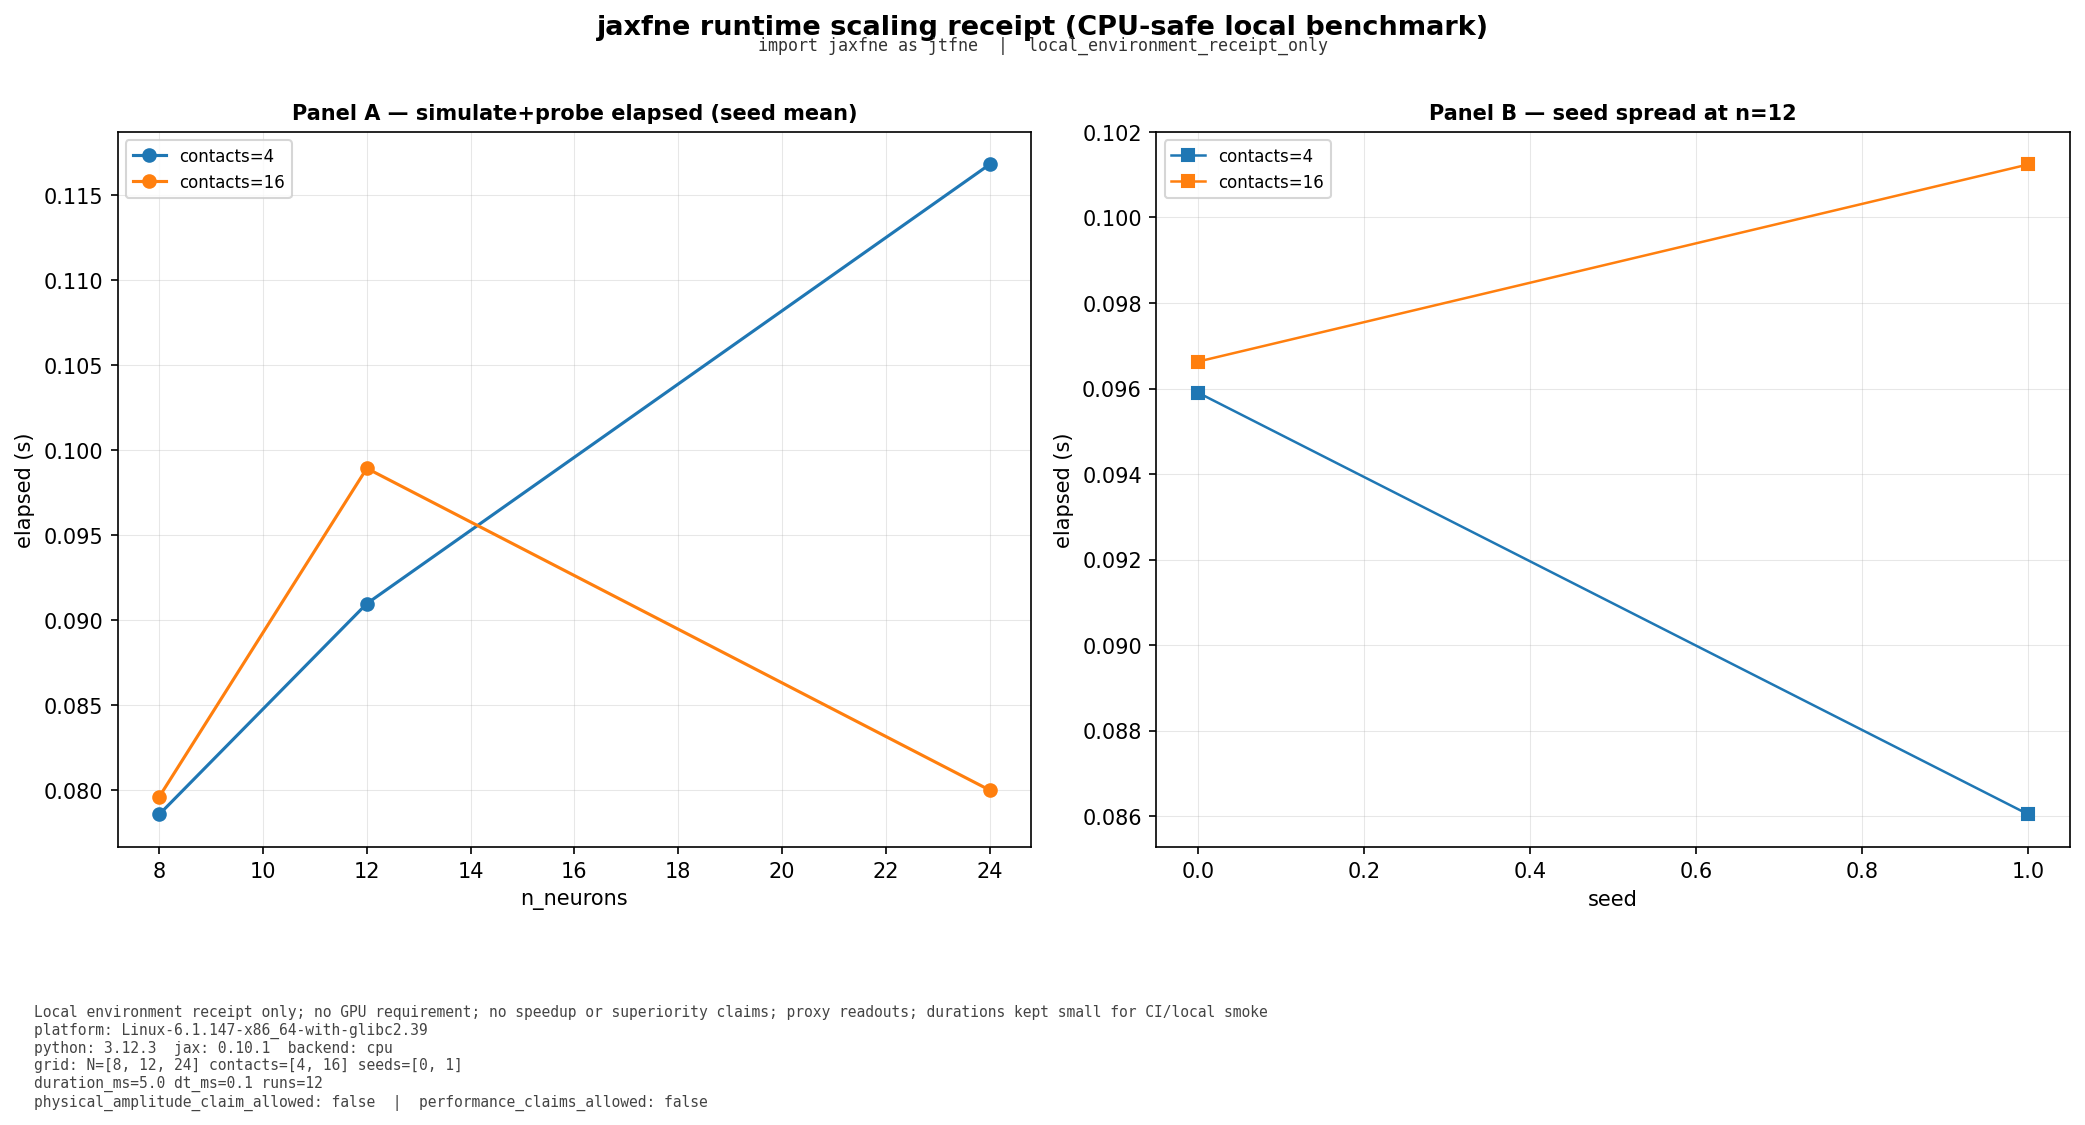
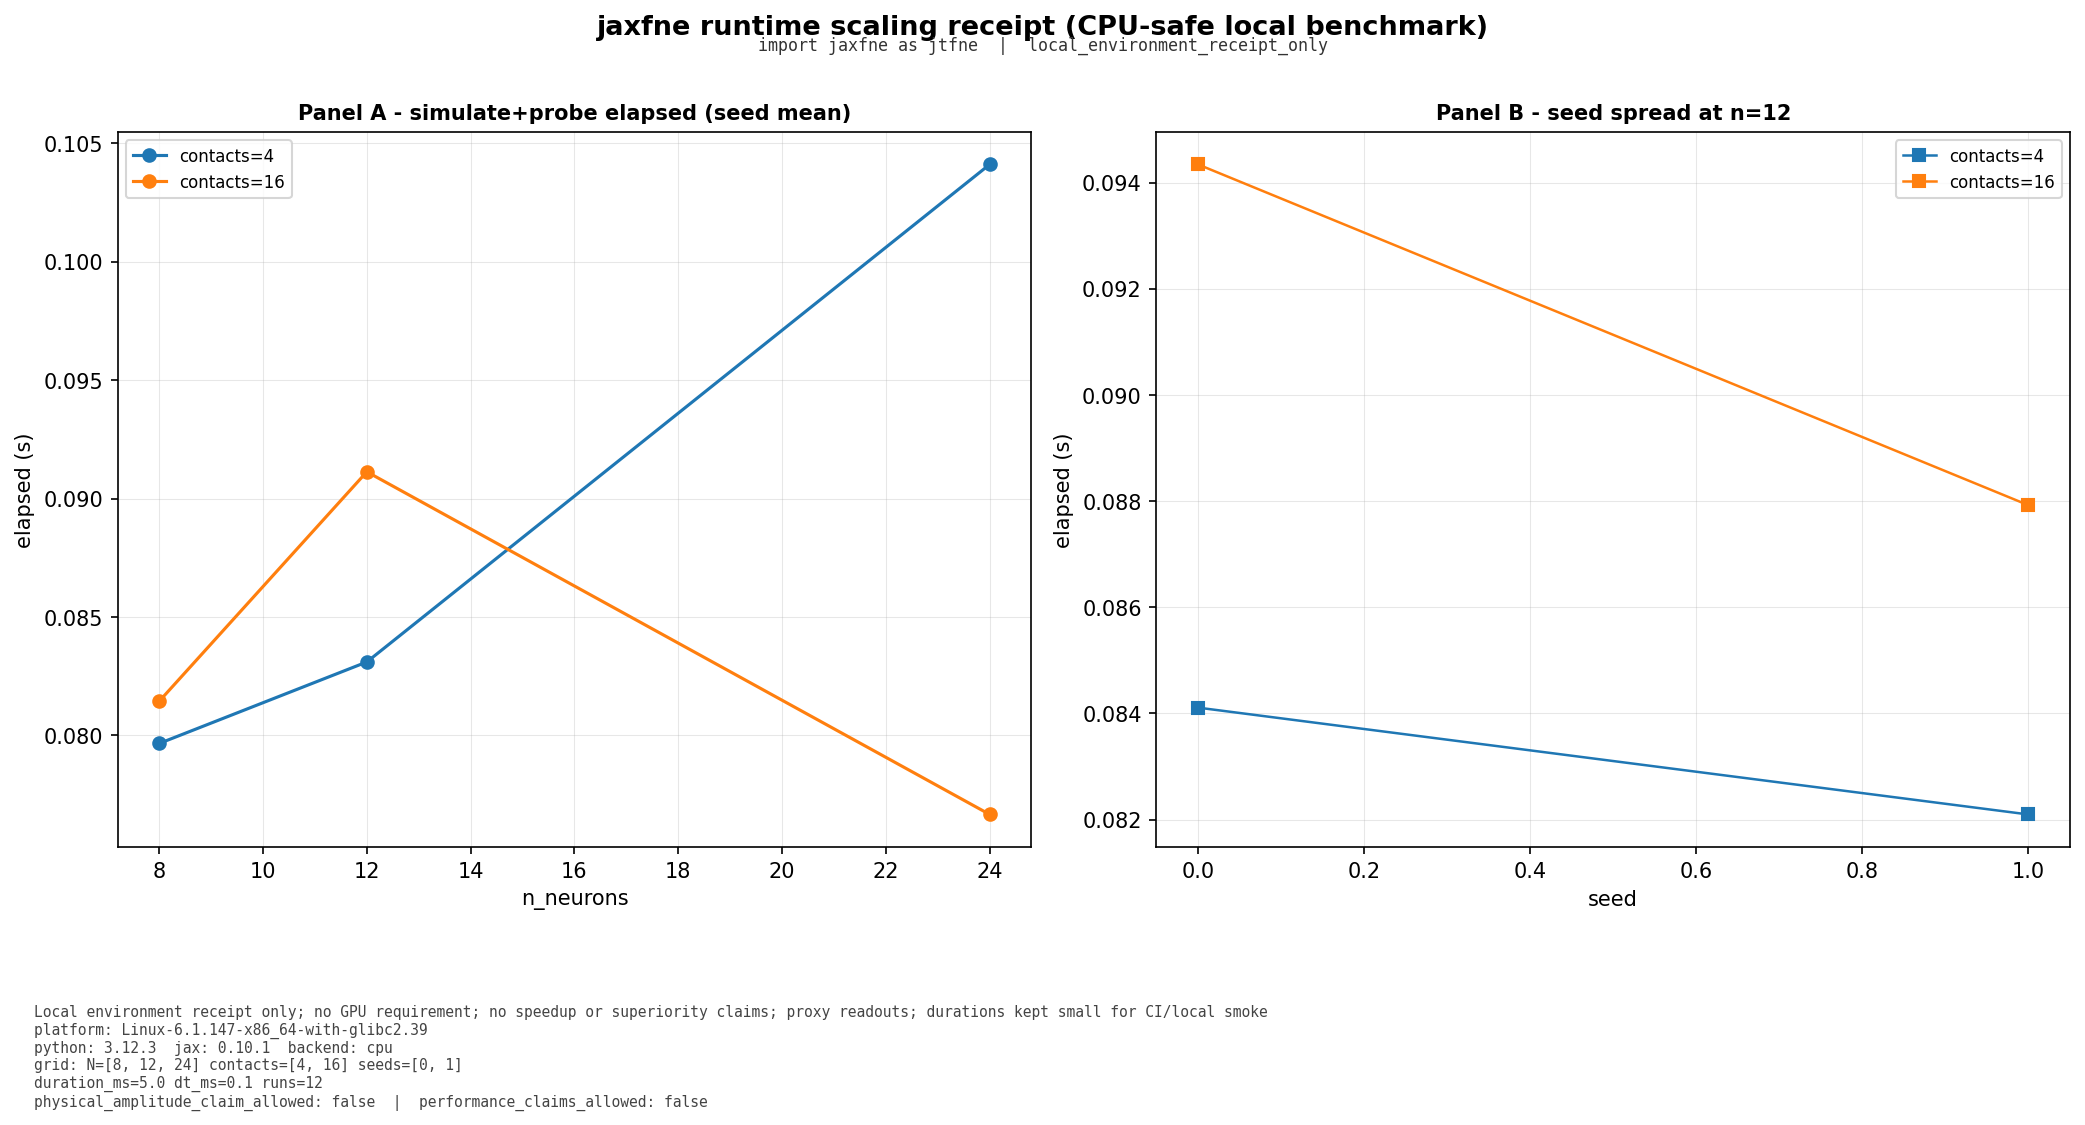
Harden fig05 benchmark timing and Unicode-safe labels
Use jax.block_until_ready for simulate/probe timers, split elapsed_simulate_s
and elapsed_probe_s in CSV, document timing_excludes in manifest, and replace
em-dash panel labels with ASCII hyphens for safer PR review.

diff --git a/scripts/publication/fig05_runtime_scaling.py b/scripts/publication/fig05_runtime_scaling.py
@@ -12,6 +12,7 @@ No universal performance claims. Local environment receipt only.
 from __future__ import annotations
 
 import csv
+import os
 import platform
 import sys
 import time
@@ -33,7 +34,6 @@ from _figure_common import (
     save_figure_manifest,
     sha256_file,
     truth_gates,
-    write_json_strict,
 )
 
 
@@ -84,8 +84,11 @@ def hardware_receipt() -> dict:
         "jax_version": str(jax.__version__),
         "jaxlib_version": jaxlib_version,
         "default_backend": str(jax.default_backend()),
+        "jax_enable_x64": bool(jax.config.read("jax_enable_x64")),
         "device_count": len(devices),
         "devices": device_rows,
+        "xla_flags": os.environ.get("XLA_FLAGS", ""),
+        "omp_num_threads": os.environ.get("OMP_NUM_THREADS", ""),
         "local_environment_receipt_only": True,
         "performance_claims_allowed": False,
     }
@@ -149,8 +152,16 @@ def run_scaling_grid() -> list[dict]:
                 )
                 t0 = time.perf_counter()
                 signals = model.simulate(sim)
+                jax.block_until_ready(signals.V_m)
+                jax.block_until_ready(signals.spikes)
+                elapsed_simulate_s = time.perf_counter() - t0
+
+                t1 = time.perf_counter()
                 readout = model.probe(signals, modes=list(PROBE_MODES))
-                elapsed_s = time.perf_counter() - t0
+                for key in ("CSD", "LFP", "csd_proxy", "lfp_proxy", "V_m", "spikes"):
+                    if key in readout and hasattr(readout[key], "shape"):
+                        jax.block_until_ready(readout[key])
+                elapsed_probe_s = time.perf_counter() - t1
 
                 csd = readout.get("CSD")
                 n_contacts_observed = int(csd.shape[1]) if csd is not None else n_contacts
@@ -165,7 +176,9 @@ def run_scaling_grid() -> list[dict]:
                         "duration_ms": DURATION_MS,
                         "dt_ms": DT_MS,
                         "dtype": str(signals.V_m.dtype),
-                        "elapsed_s": round(elapsed_s, 6),
+                        "elapsed_simulate_s": round(elapsed_simulate_s, 6),
+                        "elapsed_probe_s": round(elapsed_probe_s, 6),
+                        "elapsed_s": round(elapsed_simulate_s + elapsed_probe_s, 6),
                         "finite_outputs": _finite_status(signals, readout),
                         "n_timesteps": int(signals.V_m.shape[0]),
                         "n_readout_modes": len(PROBE_MODES),
@@ -191,6 +204,18 @@ def write_csv(rows: list[dict]) -> None:
         writer.writerows(rows)
 
 
+def _contacts_series_label(rows: list[dict], n_contacts_requested: int) -> str:
+    observed = {
+        r["n_contacts_observed"]
+        for r in rows
+        if r["n_contacts_requested"] == n_contacts_requested
+    }
+    if len(observed) == 1 and next(iter(observed)) == n_contacts_requested:
+        return f"contacts={n_contacts_requested}"
+    obs_str = ",".join(str(v) for v in sorted(observed))
+    return f"contacts_req={n_contacts_requested}_obs={obs_str}"
+
+
 def _mean_elapsed(rows: list[dict], n_neurons: int, n_contacts: int) -> float:
     subset = [
         r["elapsed_s"]
@@ -204,7 +229,7 @@ def draw_figure(rows: list[dict], hw: dict) -> None:
     """Render publication scaling figure from benchmark rows."""
     fig, axes = plt.subplots(1, 2, figsize=(14, 6), dpi=150)
 
-    # Panel A — mean elapsed vs N, grouped by contacts (seed-averaged).
+    # Panel A - mean elapsed vs N, grouped by contacts (seed-averaged).
     ax = axes[0]
     for n_contacts in N_CONTACTS_GRID:
         ys = [_mean_elapsed(rows, n, n_contacts) for n in N_NEURONS_GRID]
@@ -213,15 +238,15 @@ def draw_figure(rows: list[dict], hw: dict) -> None:
             ys,
             marker="o",
             linewidth=1.5,
-            label=f"contacts={n_contacts}",
+            label=_contacts_series_label(rows, n_contacts),
         )
-    ax.set_title("Panel A — simulate+probe elapsed (seed mean)", fontsize=10, fontweight="bold")
+    ax.set_title("Panel A - simulate+probe elapsed (seed mean)", fontsize=10, fontweight="bold")
     ax.set_xlabel("n_neurons")
     ax.set_ylabel("elapsed (s)")
     ax.grid(True, alpha=0.3, linewidth=0.5)
     ax.legend(fontsize=8)
 
-    # Panel B — seed spread at mid configuration.
+    # Panel B - seed spread at mid configuration.
     ax = axes[1]
     mid_n = 12 if 12 in N_NEURONS_GRID else N_NEURONS_GRID[1]
     for n_contacts in N_CONTACTS_GRID:
@@ -232,8 +257,8 @@ def draw_figure(rows: list[dict], hw: dict) -> None:
         ]
         xs = [r["seed"] for r in subset]
         ys = [r["elapsed_s"] for r in subset]
-        ax.plot(xs, ys, marker="s", linewidth=1.2, label=f"contacts={n_contacts}")
-    ax.set_title(f"Panel B — seed spread at n={mid_n}", fontsize=10, fontweight="bold")
+        ax.plot(xs, ys, marker="s", linewidth=1.2, label=_contacts_series_label(rows, n_contacts))
+    ax.set_title(f"Panel B - seed spread at n={mid_n}", fontsize=10, fontweight="bold")
     ax.set_xlabel("seed")
     ax.set_ylabel("elapsed (s)")
     ax.grid(True, alpha=0.3, linewidth=0.5)
@@ -297,6 +322,18 @@ def main() -> int:
             "local_environment_receipt_only": True,
             "performance_claims_allowed": False,
             "warmup_policy": "one discarded simulate per (n_neurons, n_contacts) before seed=0 timed run",
+            "timed_phases": ["simulate", "probe"],
+            "timing_excludes": [
+                "model_construct",
+                "warmup_simulate",
+                "csv_write",
+                "figure_render",
+                "manifest_write",
+            ],
+            "jax_timing_policy": "jax.block_until_ready on simulate and probe arrays before stopping timers",
+            "n_contacts_observed_values": sorted(
+                {r["n_contacts_observed"] for r in rows}
+            ),
             "benchmark_grid": {
                 "n_neurons": list(N_NEURONS_GRID),
                 "n_contacts": list(N_CONTACTS_GRID),
